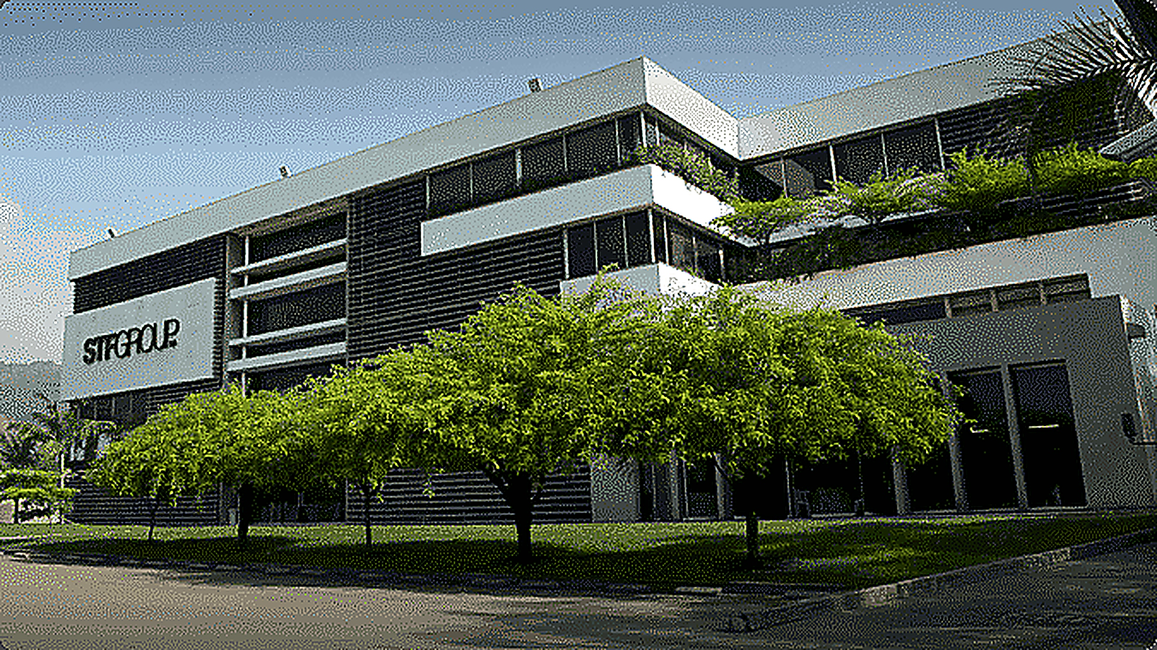
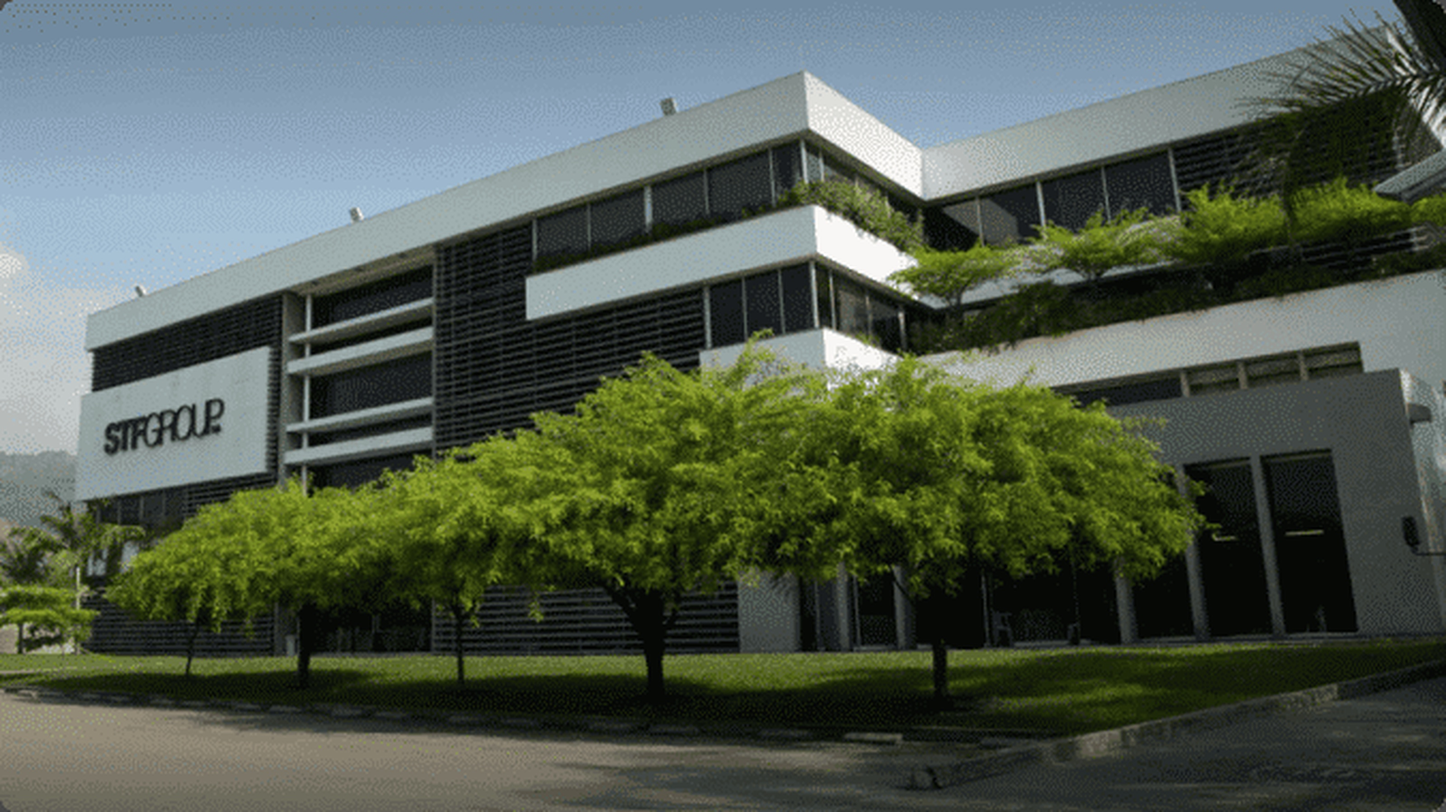
revert: restaurar fotografia original limpia de la sede sin sobre-enfoque ni exceso de contraste

diff --git a/css/login.css b/css/login.css
@@ -66,9 +66,9 @@ html, body {
   height: 100%;
   object-fit: cover;
   object-position: center center;
-  filter: brightness(0.68) contrast(1.12) saturate(0.98);
-  image-rendering: -webkit-optimize-contrast;
-  image-rendering: crisp-edges;
+  filter: brightness(0.62) contrast(1.08) saturate(0.95);
+  transform: scale(1.02);
+  will-change: transform;
 }
 
 /* Dark Carbon Neutral Mesh (Mayor transparencia y tono negro para ver la sede con nitidez) */
